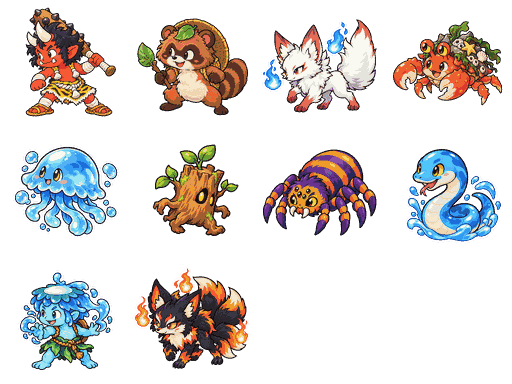
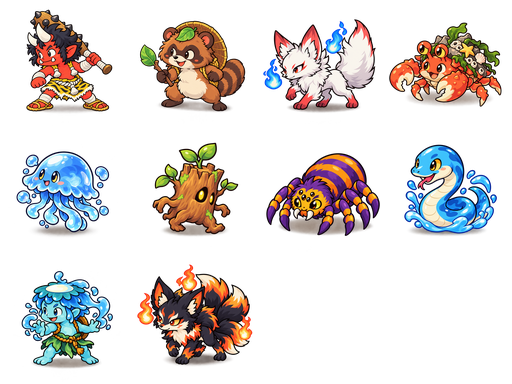
feat: integrate baked-shadow enemy art and approved rare variants

diff --git a/js/game.js b/js/game.js
@@ -145,8 +145,10 @@ const ENEMY_ART={};
 [...new Set(Object.values(YK_DATA.enemyProfiles||{}).map(p=>p.art).filter(Boolean))].forEach(n=>{
  const im=new Image();im.onload=assetLoaded;im.datasetSrc=`assets/enemies/standard/${n}.png`;ENEMY_ART[n]=im;
 });
-const ENEMY_ATLAS=new Image();ENEMY_ATLAS.onload=assetLoaded;ENEMY_ATLAS.datasetSrc="assets/enemies/enemy-standard-atlas-128.png";
+const ENEMY_ATLAS=new Image();ENEMY_ATLAS.onload=assetLoaded;ENEMY_ATLAS.datasetSrc="assets/enemies/enemy-standard-atlas-128.png?v=15.55.47";
 const ENEMY_ATLAS_CELL=128,ENEMY_ATLAS_COLS=4;
+const VARIANT_ATLAS=new Image();VARIANT_ATLAS.onload=assetLoaded;VARIANT_ATLAS.datasetSrc="assets/enemies/enemy-variant-atlas-128.png?v=15.55.47";
+const VARIANT_ATLAS_CELL=128,VARIANT_ATLAS_COLS=4;
 const RARE_ART={};
 for(const r of Object.values(YK_DATA.rareKinds)){if(!r.art)continue;RARE_ART[r.id]={};for(const state of ["intact","worn"]){const im=new Image();im.onload=assetLoaded;im.datasetSrc=`assets/enemies/variants/${r.art}${state==="worn"?"-worn":""}.png`;RARE_ART[r.id][state]=im;}}
 function ensureImage(im){if(im&&!im.src&&im.datasetSrc)im.src=im.datasetSrc;return im}
@@ -155,19 +157,29 @@ function ensureBattleAssets(){
  for(const im of Object.values(B9EN))ensureImage(im);
  for(const im of Object.values(ENEMY_ART))ensureImage(im);
  ensureImage(ENEMY_ATLAS);
+ ensureImage(VARIANT_ATLAS);
  for(const set of Object.values(RARE_ART))for(const im of Object.values(set))ensureImage(im);
 }
-function rareReady(r){if(r){ensureImage(RARE_ART[r.id]?.intact);ensureImage(RARE_ART[r.id]?.worn)}return !!r&&layerReady(RARE_ART[r.id]?.intact)&&layerReady(RARE_ART[r.id]?.worn);}
+function rareReady(r){
+ if(!r)return false;
+ if(Number.isInteger(r.variantAtlas)){ensureImage(VARIANT_ATLAS);return layerReady(VARIANT_ATLAS);}
+ ensureImage(RARE_ART[r.id]?.intact);ensureImage(RARE_ART[r.id]?.worn);
+ return layerReady(RARE_ART[r.id]?.intact)&&layerReady(RARE_ART[r.id]?.worn);
+}
 function relicBonus(stat){return (D.relics[S.equippedRelic]?.[stat]||0);}
 function enemyArt(c,x,y){
  const name=battle?.baseName||battle?.name||"",profile=D.enemyProfiles?.[name];
  const kind=/狐/.test(name)?"ninefox":/磯|泡|水|滝/.test(name)?"umibozu":/木|蜘蛛/.test(name)?"yokai_flower":"redoni";
  const dedicated=profile?.art&&ENEMY_ART[profile.art],fallback=B9EN[profile?.fallback||kind];
  const atlasIndex=Number.isInteger(profile?.atlas)?profile.atlas:null,atlasReady=atlasIndex!==null&&layerReady(ENEMY_ATLAS);
- const im=battle?.rareId?RARE_ART[battle.rareId]?.[battle.clothingBroken?"worn":"intact"]:(atlasReady?ENEMY_ATLAS:(layerReady(dedicated)?dedicated:fallback));if(!layerReady(im))return;
- const atlasScale=atlasReady?Math.min(210/ENEMY_ATLAS_CELL,220/ENEMY_ATLAS_CELL)*(profile?.scale||1):null;
- const scale=atlasReady?atlasScale:Math.min(210/im.naturalWidth,220/im.naturalHeight)*(profile?.scale||1);
- const w=(atlasReady?ENEMY_ATLAS_CELL:im.naturalWidth)*scale,h=(atlasReady?ENEMY_ATLAS_CELL:im.naturalHeight)*scale;
+ const rareDef=battle?.rareId?Object.values(D.rareKinds).find(r=>r.id===battle.rareId):null;
+ const variantIndex=Number.isInteger(rareDef?.variantAtlas)?rareDef.variantAtlas:null,variantReady=variantIndex!==null&&layerReady(VARIANT_ATLAS);
+ const rareLegacy=battle?.rareId?RARE_ART[battle.rareId]?.[battle.clothingBroken?"worn":"intact"]:null;
+ const im=battle?.rareId?(variantReady?VARIANT_ATLAS:rareLegacy):(atlasReady?ENEMY_ATLAS:(layerReady(dedicated)?dedicated:fallback));if(!layerReady(im))return;
+ const bakedAtlas=variantReady||atlasReady;
+ const cell=bakedAtlas?128:null;
+ const scale=bakedAtlas?Math.min(210/cell,220/cell)*(profile?.scale||1):Math.min(210/im.naturalWidth,220/im.naturalHeight)*(profile?.scale||1);
+ const w=(bakedAtlas?cell:im.naturalWidth)*scale,h=(bakedAtlas?cell:im.naturalHeight)*scale;
  let ox=0,oy=0;
  const baseY=y+65+(profile?.yOffset||0);
  const shadowY=baseY+(profile?.shadowYOffset||0);
@@ -176,8 +188,10 @@ function enemyArt(c,x,y){
   const p=Math.min(1,(performance.now()-battleFx.start)/battleFx.duration);
   const rush=Math.sin(p*Math.PI); ox=(profile?.style==="trickster"?-16:-26)*rush;oy=-Math.sin(p*Math.PI)*8;
  }
- shadow(c,x+ox,shadowY,65*shadowScale,15*shadowScale,.28);c.save();c.imageSmoothingEnabled=atlasReady?false:(!!battle?.rareId||layerReady(dedicated));c.imageSmoothingQuality="high";
- if(atlasReady){const sx=(atlasIndex%ENEMY_ATLAS_COLS)*ENEMY_ATLAS_CELL,sy=Math.floor(atlasIndex/ENEMY_ATLAS_COLS)*ENEMY_ATLAS_CELL;c.drawImage(im,sx,sy,ENEMY_ATLAS_CELL,ENEMY_ATLAS_CELL,x+ox-w/2,baseY+oy-h,w,h);}
+ if(!bakedAtlas)shadow(c,x+ox,shadowY,65*shadowScale,15*shadowScale,.28);
+ c.save();c.imageSmoothingEnabled=bakedAtlas?false:(!!battle?.rareId||layerReady(dedicated));c.imageSmoothingQuality="high";
+ if(variantReady){const sx=(variantIndex%VARIANT_ATLAS_COLS)*VARIANT_ATLAS_CELL,sy=Math.floor(variantIndex/VARIANT_ATLAS_COLS)*VARIANT_ATLAS_CELL;c.drawImage(im,sx,sy,VARIANT_ATLAS_CELL,VARIANT_ATLAS_CELL,x+ox-w/2,baseY+oy-h,w,h);}
+ else if(atlasReady){const sx=(atlasIndex%ENEMY_ATLAS_COLS)*ENEMY_ATLAS_CELL,sy=Math.floor(atlasIndex/ENEMY_ATLAS_COLS)*ENEMY_ATLAS_CELL;c.drawImage(im,sx,sy,ENEMY_ATLAS_CELL,ENEMY_ATLAS_CELL,x+ox-w/2,baseY+oy-h,w,h);}
  else c.drawImage(im,x+ox-w/2,baseY+oy-h,w,h);c.restore();
 }
 function cover(c,im,w,h,alpha=1){if(!im||!im.complete||!im.naturalWidth)return false;const r=Math.max(w/im.naturalWidth,h/im.naturalHeight),sw=w/r,sh=h/r,sx=(im.naturalWidth-sw)/2,sy=(im.naturalHeight-sh)/2;c.save();c.globalAlpha=alpha;c.drawImage(im,sx,sy,sw,sh,0,0,w,h);c.restore();return true}

diff --git a/index.html b/index.html
@@ -5,14 +5,14 @@
 <meta name="viewport" content="width=device-width,initial-scale=1,maximum-scale=1,user-scalable=no,viewport-fit=cover">
 <meta name="apple-mobile-web-app-capable" content="yes">
 <meta name="theme-color" content="#0a1020">
-<title>夜叉姫の花結び奇譚 β15.55.46</title>
-<link rel="stylesheet" href="css/game.css?v=15.55.46">
+<title>夜叉姫の花結び奇譚 β15.55.47</title>
+<link rel="stylesheet" href="css/game.css?v=15.55.47">
 </head>
 <body>
 <canvas id="worldTerrain" width="1536" height="1536" hidden aria-hidden="true"></canvas>
 <div id="app">
   <header>
-    <div class="brand">夜叉姫の花結び奇譚 <small>β15.55.46</small></div>
+    <div class="brand">夜叉姫の花結び奇譚 <small>β15.55.47</small></div>
     <div class="topBtns">
       <button id="worldBtn">地図</button><button id="bookBtn">つよさ</button><button id="saveBtn">記録</button><button id="settingsBtn">設定</button>
     </div>
@@ -52,7 +52,7 @@
     <button id="newGame" class="primary" type="button" onclick="window.__YK_BOOT_START&&window.__YK_BOOT_START()">はじめから</button>
     <button id="continueGame">つづきから</button>
     <button id="debugMap" type="button" style="font-size:14px;opacity:.82">DEBUG MAP</button>
-    <div class="version">BETA 15.55.46</div><div id="bootError" style="font-size:12px;min-height:18px"></div>
+    <div class="version">BETA 15.55.47</div><div id="bootError" style="font-size:12px;min-height:18px"></div>
   </div>
   <script>
   // Boot-safe title control. This deliberately does not depend on game.js/YK_INPUT.
@@ -113,14 +113,14 @@
 
 <div id="gameover" class="overlay"><div class="titlebox"><h2>力尽きた……</h2><p>最後の自動保存から再開できます。</p><button id="retryBtn" class="primary">再開する</button><button id="goTitleBtn">タイトルへ</button></div></div>
 
-<script src="js/data.js?v=15.55.46"></script>
-<script src="js/world.js?v=15.55.46"></script>
-<script src="js/save.js?v=15.55.46"></script>
-<script src="js/audio.js?v=15.55.46"></script>
-<script src="js/input.js?v=15.55.46"></script>
-<script src="js/autotile.js?v=15.55.46"></script>
-<script src="js/landscape.js?v=15.55.46"></script>
-<script src="js/game.js?v=15.55.46"></script>
+<script src="js/data.js?v=15.55.47"></script>
+<script src="js/world.js?v=15.55.47"></script>
+<script src="js/save.js?v=15.55.47"></script>
+<script src="js/audio.js?v=15.55.47"></script>
+<script src="js/input.js?v=15.55.47"></script>
+<script src="js/autotile.js?v=15.55.47"></script>
+<script src="js/landscape.js?v=15.55.47"></script>
+<script src="js/game.js?v=15.55.47"></script>
 
 
 

diff --git a/js/data.js b/js/data.js
@@ -43,17 +43,17 @@ const enemyProfiles={
 };
 // Static artwork must exist for both states before a variant enters the encounter pool.
 const rareKinds={
- "野の小鬼":{id:"oni",name:"紅角の鬼女",art:"oni-woman"},
- "化け狸":{id:"tanuki",name:"葉隠れ狸女",art:"tanuki-woman",hpMultiplier:1.35,atkMultiplier:1.15,trait:"leafDodge",traitChance:.22},
- "灯火狐":{id:"lantern",name:"灯籠の狐女",art:"lantern-woman",hpMultiplier:1.35,atkMultiplier:1.2,trait:"foxfire",traitChance:.28},
- "磯妖":{id:"shell",name:"磯貝の妖女",art:"shell-woman",hpMultiplier:1.35,atkMultiplier:1.15,trait:"shellGuard",traitChance:.25},
- "泡くらげ":{id:"jelly",name:"泡衣の海月女"},
- "木霊":{id:"tree",name:"若葉の木霊女"},
- "迷い蜘蛛":{id:"spider",name:"糸織り蜘蛛女"},
- "水蛇":{id:"snake",name:"水鏡の蛇女"},
- "滝童":{id:"falls",name:"滝守りの妖女"},
+ "野の小鬼":{id:"oni",name:"紅角の鬼女",variantAtlas:0},
+ "化け狸":{id:"tanuki",name:"葉隠れ狸女",variantAtlas:1,hpMultiplier:1.35,atkMultiplier:1.15,trait:"leafDodge",traitChance:.22},
+ "灯火狐":{id:"lantern",name:"灯籠の狐女",variantAtlas:2,hpMultiplier:1.35,atkMultiplier:1.2,trait:"foxfire",traitChance:.28},
+ "磯妖":{id:"shell",name:"磯貝の妖女",variantAtlas:3,hpMultiplier:1.35,atkMultiplier:1.15,trait:"shellGuard",traitChance:.25},
+ "泡くらげ":{id:"jelly",name:"泡衣の海月女",variantAtlas:4},
+ "木霊":{id:"tree",name:"若葉の木霊女",variantAtlas:5},
+ "迷い蜘蛛":{id:"spider",name:"糸織り蜘蛛女",variantAtlas:6},
+ "水蛇":{id:"snake",name:"水鏡の蛇女",variantAtlas:7},
+ "滝童":{id:"falls",name:"滝守りの妖女",variantAtlas:8},
  "妖狐":{id:"fox",name:"宵火の狐女"},
- "影九尾":{id:"ninefox",name:"朧九尾の妖女"}
+ "影九尾":{id:"ninefox",name:"朧九尾の妖女",variantAtlas:9}
 };
 const relics={
  oni:{name:"鬼のパンツ♀",text:"虎柄の予備の旅装。攻撃力+2・守備力+2",atk:2,def:2},
